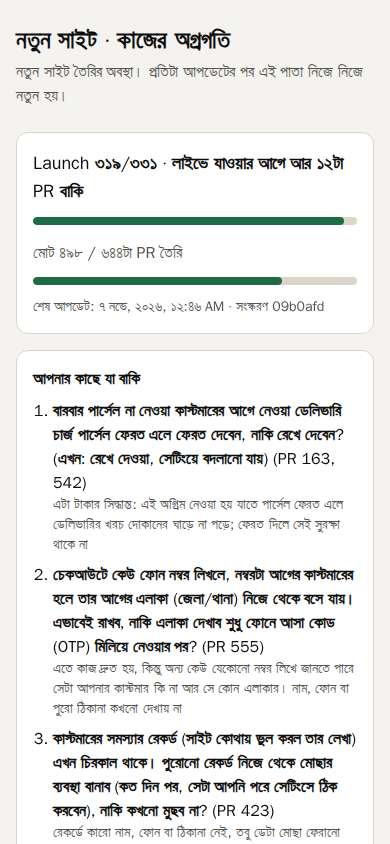
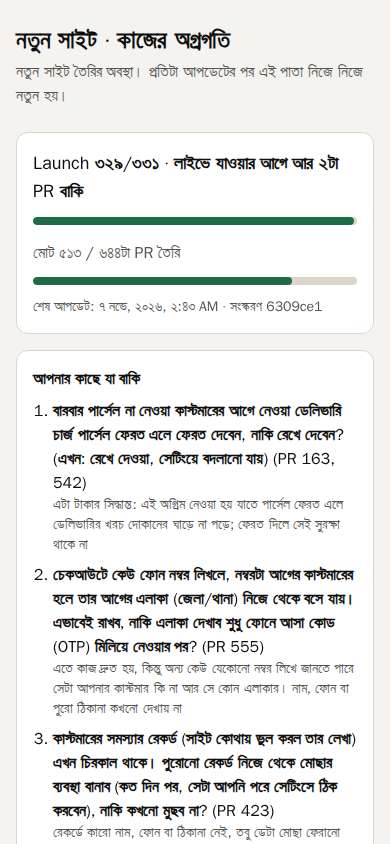
deploy report: 6309ce1b7e77 OK [skip ci]

diff --git a/docs/reports/smoke/latest/README.md b/docs/reports/smoke/latest/README.md
@@ -1,8 +1,8 @@
-# Smoke test · 2026-11-07 00:46 (Asia/Dhaka)
+# Smoke test · 2026-11-07 02:43 (Asia/Dhaka)
 
-> **বাংলায়:** 0টা পাতায় সমস্যা পাওয়া গেছে। সাইট নিজে থেকে আগের ভালো ভার্সনে ফিরে যাচ্ছে; ঠিক করার কাজ সবার আগে হচ্ছে।
+> **বাংলায়:** সব পাতা ঠিকমতো খুলেছে (516টা পাতা, ফোন আর কম্পিউটারে)। কোনো সমস্যা নেই।
 
-Site: https://new.extas.com.bd · commit `09b0afdba8ae` · after deploy · result **FAIL** (504 page views, 0 failed)
+Site: https://new.extas.com.bd · commit `6309ce1b7e77` · after deploy · result **PASS** (516 page views, 0 failed)
 
 | Page | Screen | Answer | Landed on | Result | Screenshot |
 |---|---|:-:|---|---|---|
@@ -215,6 +215,7 @@ Site: https://new.extas.com.bd · commit `09b0afdba8ae` · after deploy · resul
 | `/admin/website/eye-toggles` | phone | 200 | `/admin/website/eye-toggles` | ok | — |
 | `/admin/website/side-canvas` | phone | 200 | `/admin/website/side-canvas` | ok | — |
 | `/admin/website/launch-default` | phone | 200 | `/admin/website/launch-default` | ok | — |
+| `/admin/website/page-edit` | phone | 200 | `/admin/website/page-edit` | ok | — |
 | `/admin/settings/shimmer` | phone | 200 | `/admin/settings/shimmer` | ok | — |
 | `/admin/combos/bag-box` | phone | 200 | `/admin/combos/bag-box` | ok | — |
 | `/admin/build/requests` | phone | 200 | `/admin/build/requests` | ok | — |
@@ -252,9 +253,14 @@ Site: https://new.extas.com.bd · commit `09b0afdba8ae` · after deploy · resul
 | `/admin/website/blog/comments` | phone | 200 | `/admin/website/blog/comments` | ok | — |
 | `/admin/website/blog/shared` | phone | 200 | `/admin/website/blog/shared` | ok | — |
 | `/admin/website/blog/sold` | phone | 200 | `/admin/website/blog/sold` | ok | — |
+| `/admin/website/blog/ads` | phone | 200 | `/admin/website/blog/ads` | ok | — |
+| `/admin/website/blog/ads/new` | phone | 200 | `/admin/website/blog/ads/new` | ok | — |
+| `/admin/website/blog/pipeline` | phone | 200 | `/admin/website/blog/pipeline` | ok | — |
+| `/admin/marketing/geo-guide` | phone | 200 | `/admin/marketing/geo-guide` | ok | — |
+| `/admin/marketing/merchant-feed` | phone | 200 | `/admin/marketing/merchant-feed` | ok | — |
 | `/admin/orders/01a1b1a8-7b18-71b2-99e4-0e497364279e` | phone | 200 | `/admin/orders/01a1b1a8-7b18-71b2-99e4-0e497364279e` | ok | — |
 | `/admin/customers/01a1b1a8-7b15-77f2-be3b-8d0eb9fe7893` | phone | 200 | `/admin/customers/01a1b1a8-7b15-77f2-be3b-8d0eb9fe7893` | ok | — |
-| `/admin/reports/health/history/01a1b1fa-f39b-7230-889b-15003fea1ff2` | phone | 200 | `/admin/reports/health/history/01a1b1fa-f39b-7230-889b-15003fea1ff2` | ok | — |
+| `/admin/reports/health/history/01a1b237-e51d-72a3-b001-2c3ee6d6304a` | phone | 200 | `/admin/reports/health/history/01a1b237-e51d-72a3-b001-2c3ee6d6304a` | ok | — |
 | `/admin/customers/01a1b1a8-7b15-77f2-be3b-8d0eb9fe7893?tab=wallet` | phone | 200 | `/admin/customers/01a1b1a8-7b15-77f2-be3b-8d0eb9fe7893` | ok | — |
 | `/admin/combos?tab=report` | phone | 200 | `/admin/combos` | ok | — |
 | `/admin?home=1` | phone | 200 | `/admin` | ok | [picture](admin-home-1-phone.jpg) |
@@ -467,6 +473,7 @@ Site: https://new.extas.com.bd · commit `09b0afdba8ae` · after deploy · resul
 | `/admin/website/eye-toggles` | desktop | 200 | `/admin/website/eye-toggles` | ok | — |
 | `/admin/website/side-canvas` | desktop | 200 | `/admin/website/side-canvas` | ok | — |
 | `/admin/website/launch-default` | desktop | 200 | `/admin/website/launch-default` | ok | — |
+| `/admin/website/page-edit` | desktop | 200 | `/admin/website/page-edit` | ok | — |
 | `/admin/settings/shimmer` | desktop | 200 | `/admin/settings/shimmer` | ok | — |
 | `/admin/combos/bag-box` | desktop | 200 | `/admin/combos/bag-box` | ok | — |
 | `/admin/build/requests` | desktop | 200 | `/admin/build/requests` | ok | — |
@@ -504,19 +511,16 @@ Site: https://new.extas.com.bd · commit `09b0afdba8ae` · after deploy · resul
 | `/admin/website/blog/comments` | desktop | 200 | `/admin/website/blog/comments` | ok | — |
 | `/admin/website/blog/shared` | desktop | 200 | `/admin/website/blog/shared` | ok | — |
 | `/admin/website/blog/sold` | desktop | 200 | `/admin/website/blog/sold` | ok | — |
+| `/admin/website/blog/ads` | desktop | 200 | `/admin/website/blog/ads` | ok | — |
+| `/admin/website/blog/ads/new` | desktop | 200 | `/admin/website/blog/ads/new` | ok | — |
+| `/admin/website/blog/pipeline` | desktop | 200 | `/admin/website/blog/pipeline` | ok | — |
+| `/admin/marketing/geo-guide` | desktop | 200 | `/admin/marketing/geo-guide` | ok | — |
+| `/admin/marketing/merchant-feed` | desktop | 200 | `/admin/marketing/merchant-feed` | ok | — |
 | `/admin/orders/01a1b1a8-7b18-71b2-99e4-0e497364279e` | desktop | 200 | `/admin/orders/01a1b1a8-7b18-71b2-99e4-0e497364279e` | ok | — |
 | `/admin/customers/01a1b1a8-7b15-77f2-be3b-8d0eb9fe7893` | desktop | 200 | `/admin/customers/01a1b1a8-7b15-77f2-be3b-8d0eb9fe7893` | ok | — |
-| `/admin/reports/health/history/01a1b1fa-f39b-7230-889b-15003fea1ff2` | desktop | 200 | `/admin/reports/health/history/01a1b1fa-f39b-7230-889b-15003fea1ff2` | ok | — |
+| `/admin/reports/health/history/01a1b237-e51d-72a3-b001-2c3ee6d6304a` | desktop | 200 | `/admin/reports/health/history/01a1b237-e51d-72a3-b001-2c3ee6d6304a` | ok | — |
 | `/admin/customers/01a1b1a8-7b15-77f2-be3b-8d0eb9fe7893?tab=wallet` | desktop | 200 | `/admin/customers/01a1b1a8-7b15-77f2-be3b-8d0eb9fe7893` | ok | — |
 | `/admin/combos?tab=report` | desktop | 200 | `/admin/combos` | ok | — |
 | `/admin?home=1` | desktop | 200 | `/admin` | ok | [picture](admin-home-1-desktop.jpg) |
 
-Other problems:
-
-- check (PR 633): Orders › Returns › QC draws in the Lumen look and follows dark mode (CN-036): page.waitForSelector: Timeout 15000ms exceeded.
-- check (PR 633): Orders › Returns › Hand-back draws in the Lumen look and follows dark mode (CN-036): page.waitForSelector: Timeout 15000ms exceeded.
-- check (PR 634): Products › Add product draws in the Lumen look and follows dark mode (CN-036): page.waitForSelector: Timeout 15000ms exceeded.
-- check (PR 634): Products › Import from a link draws in the Lumen look and follows dark mode (CN-036): page.waitForSelector: Timeout 15000ms exceeded.
-- check (PR 634): Products › Import from the ERP draws in the Lumen look and follows dark mode (CN-036): page.waitForSelector: Timeout 15000ms exceeded.
-
-Database (PR 139): ok: 35 tables append-only; the app connects as extas_app.
+Database (PR 139): ok: 36 tables append-only; the app connects as extas_app.

diff --git a/docs/reports/server/deploy-latest.md b/docs/reports/server/deploy-latest.md
@@ -4,13 +4,13 @@ Written by `deploy.yml` after every deploy (`infra/deploy/deploy-report.sh`). Hi
 
 | | |
 |---|---|
-| Commit | `09b0afdba8ae` |
-| Time (Asia/Dhaka) | 2026-11-07 00:56 |
-| Result | **FAILED, ROLLED BACK** |
+| Commit | `6309ce1b7e77` |
+| Time (Asia/Dhaka) | 2026-11-07 02:52 |
+| Result | **OK** |
 | Database migration | ok |
-| Health check on new.extas.com.bd | OK — HTTP 200 from https://new.extas.com.bd/api/health, version 09b0afdba8ae, colour green |
-| Smoke test (every page) | FAILED — check (PR 633): Orders › Returns › QC draws in the Lumen look and follows dark mode (CN-036): page.waitForSelector: Timeout 15000ms exceeded.; check (PR 633): Orders › Returns › Hand-back draws in the Lumen look and follows dark mode (CN-036): page.waitForSelector: Timeout 15000ms exceeded.; |
-| Docs on the server | `09b0afdba8ae` — README.md + docs/ (2415 files) |
+| Health check on new.extas.com.bd | OK — HTTP 200 from https://new.extas.com.bd/api/health, version 6309ce1b7e77, colour green |
+| Smoke test (every page) | OK — 516 page views, signed out and as the admin, phone and desktop (storefront pictures: `docs/reports/smoke/latest/`; the admin pictures stay on the server) |
+| Docs on the server | `6309ce1b7e77` — README.md + docs/ (2422 files) |
 | Main disk (/) | 118 GB free after the clean-up (was 118 GB), at least 15 GB needed |
-| What failed | The new version went live, but the smoke test found a problem (check (PR 633): Orders › Returns › QC draws in the Lumen look and follows dark mode (CN-036): page.waitForSelector: Timeout 15000ms exceeded.; check (PR 633): Orders › Returns › Hand-back draws in the Lumen look and follows dark mode (CN-036): page.waitForSelector: Timeout 15000ms exceeded.;), so the previous version was put back automatically. The fix comes before any new work. |
-| Run log | https://github.com/mehadih32/Extas-Ecommerce-Site/actions/runs/42273094011 |
+| Live colour | green |
+| Run log | https://github.com/mehadih32/Extas-Ecommerce-Site/actions/runs/42290027093 |

diff --git a/docs/reports/server/deploy-history.md b/docs/reports/server/deploy-history.md
@@ -97,3 +97,4 @@ One line per deploy, newest last, appended by `deploy.yml`. Time: Asia/Dhaka.
 | 2026-11-06 21:45 | `4689df67c695` | deploy | OK | ok | OK, smoke OK | — |
 | 2026-11-06 23:50 | `5f36db1893eb` | deploy | FAILED, ROLLED BACK | ok | OK, smoke FAILED | The new version went live, but the smoke test found a problem (check (PR 632): Orders › Today's queue (To confirm) draws in the Lumen look and follows dark mode (CN-036): page.waitForSelector: Timeout 15000ms exceeded.; check (PR 632): Orders › Call list draws in the Lumen look and follows dark mode (CN-036): page.waitForSelector: Timeout 15000ms exceeded.;), so the previous version was put back automatically. The fix comes before any new work. |
 | 2026-11-07 00:56 | `09b0afdba8ae` | deploy | FAILED, ROLLED BACK | ok | OK, smoke FAILED | The new version went live, but the smoke test found a problem (check (PR 633): Orders › Returns › QC draws in the Lumen look and follows dark mode (CN-036): page.waitForSelector: Timeout 15000ms exceeded.; check (PR 633): Orders › Returns › Hand-back draws in the Lumen look and follows dark mode (CN-036): page.waitForSelector: Timeout 15000ms exceeded.;), so the previous version was put back automatically. The fix comes before any new work. |
+| 2026-11-07 02:52 | `6309ce1b7e77` | deploy | OK | ok | OK, smoke OK | — |

diff --git a/docs/reports/erp-acceptance/latest/README.md b/docs/reports/erp-acceptance/latest/README.md
@@ -2,5 +2,5 @@
 
 **সারকথা:** ডেমো ERP-এর চাবির অপেক্ষায়। মালিক সেটিংস → ERP সংযোগ পাতায় ডেমো দোকানের চাবি দিলে প্রতি রাতে আর প্রতিটা রিলিজের আগে এই পরীক্ষা চলবে।
 
-- 2026-11-06T18:45:38.506Z: waiting for the demo key. Nothing was called; nothing failed.
+- 2026-11-06T20:42:52.513Z: waiting for the demo key. Nothing was called; nothing failed.
 - The practice ERP runs every check in CI (packages/adapters/test/erp-acceptance.test.ts, the books drills).
